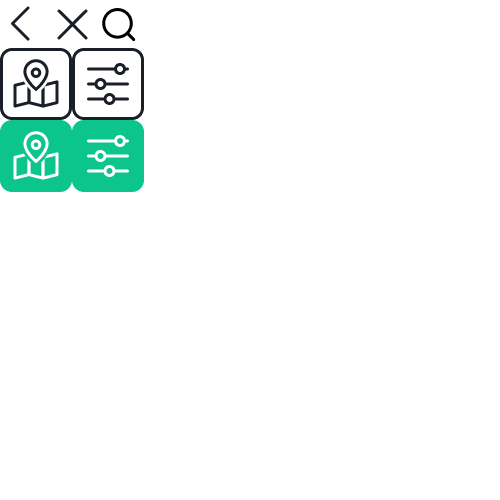
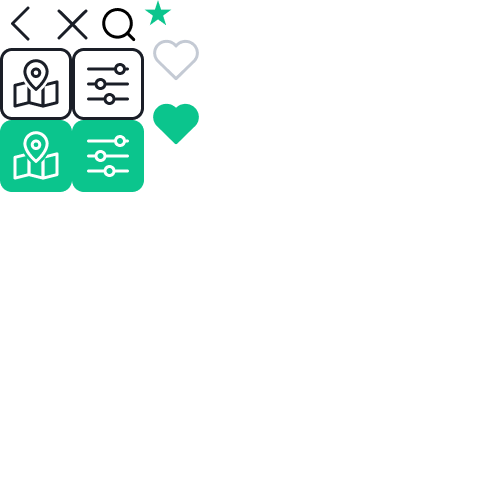
add: 탐색 결과 리스트 마크업

Changed region(s): [[0.3, 0.0, 0.39, 0.18], [0.3, 0.21, 0.42, 0.3], [0.39, 0.09, 0.42, 0.12]]

diff --git a/src/app/search/list/page.tsx b/src/app/search/list/page.tsx
@@ -2,8 +2,10 @@ import ButtonIcon from '@/app/_components/common/button/ButtonIcon';
 import TabButton from '@/app/_components/common/tab/TabButton';
 import TabContentWrap from '@/app/_components/common/tab/TabContentWrap';
 import TabList from '@/app/_components/common/tab/TabList';
-import TagList from '@/app/_components/search/list/TagList';
+import List from '@/app/_components/search/list/List';
 import HeaderDetail from '@/app/_layout/header_detail';
+
+import styled from '../search.module.css'
 
 const pageType = 'search';
 const searchList = [
@@ -22,7 +24,7 @@ const searchList = [
 ];
 const tagList = [
   ['영업중', '식당', '카페', '술집'],
-  ['야외', '실내', ''],
+  ['야외', '실내'],
   ['호텔', '모텔', '게스트하우스'],
 ]
 const SearchPage = () => {
@@ -32,7 +34,7 @@ const SearchPage = () => {
       <TabList
         titleId="searchCategory"
         title="탐색 카테고리"
-        tablistClassName="tablist_search"
+        tablistClassName={styled.tablist_search}
       >
         {searchList.map((item, idx) => (
           <TabButton
@@ -44,14 +46,28 @@ const SearchPage = () => {
           </TabButton>
         ))}
       </TabList>
-      <div className="box_btns">
-        <h4 className='screen_out'>보기 방식 선택</h4>
-        <ButtonIcon className='ico_pravel ico_map'>지도로 보기</ButtonIcon>
-        <ButtonIcon className='ico_pravel ico_list'>리스트로 보기</ButtonIcon>
-      </div>
       {searchList.map((item, idx) => (
-        <TabContentWrap key={`panel_search${idx}`} id={pageType + idx}>
-          <TagList id={item.en} tagList={[]} />
+        <TabContentWrap key={`panel_search${idx}`} id={pageType + idx} className='px-[16px]'>
+          <div className="flex justify-start py-[16px]">
+            <div className='inline-block mr-[14px]'>
+              <h4 className='screen_out'>보기 방식 선택</h4>
+              <ButtonIcon className='ico_pravel ico_map'>지도로 보기</ButtonIcon>
+              <ButtonIcon className='ico_pravel ico_list ml-[10px]'>리스트로 보기</ButtonIcon>
+            </div>
+            <div className="overflow-x-auto scrollbar-hide w-[calc(100%-97px)] pl-[13px] mr-[-16px] border-l-[1px] border-solid border-[#E6E6E6] font-semibold text-[14px]">
+              <strong className='screen_out'>필터 태그 리스트</strong>
+              <ul className='flex grow justify-start'>
+                {tagList[idx].map((item, idx) => (
+                  <li key={`tag_type${idx}`}>
+                    <button className={`${styled.btn_tag}`}>{item}</button>
+                  </li>
+                ))}
+              </ul>
+            </div>
+          </div>
+          <span className='inline-block h-[27px] mb-[16px] text-[13px] leading-[27px] text-gray-600'>1,000개의 매장</span>
+          <List/>
+          
         </TabContentWrap>
       ))}
     </div>

diff --git a/src/app/_components/search/list/List.tsx b/src/app/_components/search/list/List.tsx
@@ -1,0 +1,37 @@
+import ButtonIcon from '../../common/button/ButtonIcon';
+
+const List = () => {
+  return (
+    <>
+      <strong className="screen_out">리스트</strong>
+      <ul>
+        <li className="flex border-solid border-b-[1px] border-gray-300">
+          <button className="flex items-start py-[20px]">
+            <img src="" alt="" className="inline-block w-[65px] h-[65px] mr-[12px] rounded-[20px] rounded-bl-[5px] bg-gray-200" />
+            <div className="text-left font-semibold">
+              <strong className="mb-[8px] text-[18px] leading-[30px] text-gray-900">맛집이름</strong>
+              <div className="mb-[6px] text-gray-700">
+                <span>양식</span>
+                <span className="mx-[8px]">
+                  <span className="ico_pravel ico_star14">평점</span>
+                  4.5
+                </span>
+                <span className="pl-[8px] border-l-[1px] border-solid border-gray-300 text-gray-500">리뷰 32개</span>
+              </div>
+              <div>
+                <span className='px-[6px] py-[3px] bg-gray-100 text-gray-400 text-[12px]'>#파스타</span>
+              </div>
+            </div>
+          </button>
+          <div>
+            <ButtonIcon>
+              <span className="ico_pravel ico_like32_on">좋아요</span>
+              <span className='block text-gray-800 text-[11px] font-medium'>도보 10분</span>
+            </ButtonIcon>
+          </div>
+        </li>
+      </ul>
+    </>
+  );
+};
+export default List;

diff --git a/src/app/search/search.module.css b/src/app/search/search.module.css
@@ -1,0 +1,28 @@
+.tablist_search{
+  height: 43px;
+}
+.tablist_search button{
+  display: inline-block;
+  width: calc(100% / 3);
+  height: 100%;
+  border-bottom: 2px solid theme('colors.gray.300');
+}
+.tablist_search button[aria-selected="true"]{
+  border-bottom-color: theme('colors.primary');
+}
+.btn_tag{
+  margin-right: 7px;
+  padding: 6px 19px;
+  border-radius: 26px;
+  border: 1px solid theme('colors.gray.300');
+  text-wrap: nowrap;
+  font-weight: 600;
+  color: theme('colors.gray.400');
+}
+.btn_tag.on{
+  padding: 6px 19px;
+  background-color: theme('colors.primary');
+  border-radius: 26px;
+  border: none;
+  color: theme('colors.white');
+}

diff --git a/src/app/_components/common/tab/TabContentWrap.tsx b/src/app/_components/common/tab/TabContentWrap.tsx
@@ -1,14 +1,15 @@
-interface TabContentType {
+interface TabContentType extends React.HTMLAttributes<HTMLDivElement> {
   id: string;
-  children: React.ReactNode
+  children: React.ReactNode;
 }
 
 const TabContentWrap = ({
   id,
-  children
+  children,
+  ...rest
 }: TabContentType) => {
   return (
-    <div id={`panel_${id}`} role="tabpanel" aria-labelledby={`tab_${id}`}>
+    <div id={`panel_${id}`} role="tabpanel" aria-labelledby={`tab_${id}`} {...rest}>
       {children}
     </div>
   )

diff --git a/tailwind.config.js b/tailwind.config.js
@@ -12,10 +12,13 @@ module.exports = {
   ],
   theme: {
     colors: {
+      primary: '#0BC58D',
+      white: '#FFF',
+      black: '#000',
       gray: {
         100: '#F4F6F8',
-        200: '#e8ebf0',
-        300: '#E8EBF0',
+        200: '#E8EBF0',
+        300: '#D8DCE2',
         400: '#C4CAD4',
         500: '#A5ADBD',
         600: '#8E95A3',
@@ -26,5 +29,5 @@ module.exports = {
     },
     extend: {},
   },
-  plugins: [],
+  plugins: [require("tailwind-scrollbar-hide")],
 }

diff --git a/src/app/_styles/icons.css b/src/app/_styles/icons.css
@@ -43,3 +43,18 @@
   height: 36px;
   background-position: -36px -60px;
 }
+.ico_like32{
+  width: 32px;
+  height: 32px;
+  background-position: -72px -14px;
+}
+.ico_like32_on{
+  width: 32px;
+  height: 32px;
+  background-position: -72px -46px;
+}
+.ico_star14{
+  width: 14px;
+  height: 14px;
+  background-position: -72px 0;
+}

diff --git a/src/app/_components/common/tab/TabList.tsx b/src/app/_components/common/tab/TabList.tsx
@@ -13,7 +13,7 @@ const TabList = ({
 }: TabListType) => {
   return (
     <>
-      <h3 id={titleId}>{title}</h3>
+      <h3 id={titleId} className="screen_out">{title}</h3>
       <div role="tablist" aria-labelledby={titleId} className={tablistClassName}>
         {children}
       </div>
